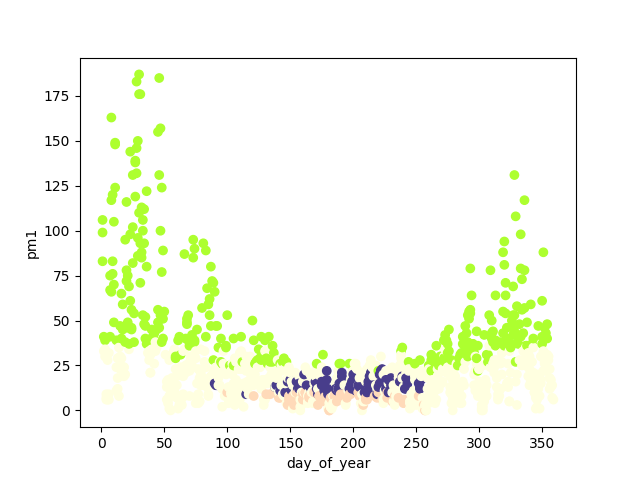
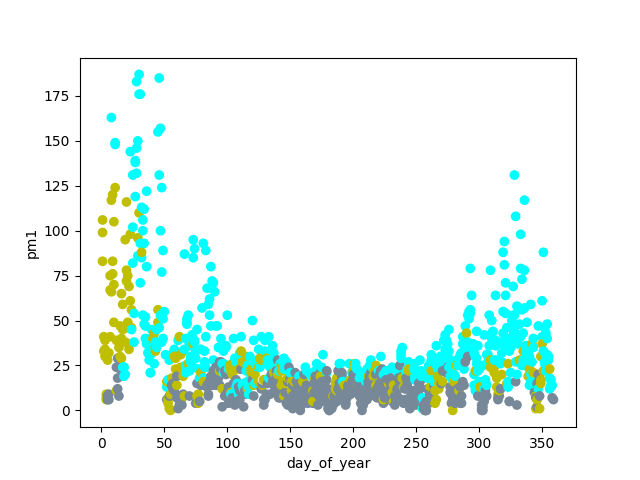
Plots

diff --git a/DataMining-Project2/DencityPeaks.py b/DataMining-Project2/DencityPeaks.py
@@ -19,13 +19,12 @@ from Lib import *
 
 X = 'temperature'
 Y = 'pm1'
-main_data = ('temperature', 'pm1')
+main_data = ('temperature', 'humidity', 'pressure', 'pm1')
 
 # Nice output :)
-def print_point(point, x_label, y_label):
-    print("(%s=%d, %s=%d, day_of_year=%d)  -> id=%d,  \tid_of_closest_neighbor=%s,\tcluster=%s,\tdensity=%d,\tdistance_to_higher_density_point=%.4f" % \
-        (x_label, point[x_label], y_label, point[y_label], point["day_of_year"], point["id"], str(point["id_of_point_with_higher_density"]),
-         str(point["cluster"]), point["density"], point["distance_to_higher_density_point"]))
+def print_point(point):
+    print("(temperature=%d, humidity=%d, pressure=%d, pm1=%d, day_of_year=%d) \t->  id=%d,\tid_of_closest_neighbor=%s,\tcluster=%s,\tdensity=%d,\tdistance_to_higher_density_point=%.4f" % \
+        (point["temperature"], point["humidity"], point["pressure"], point["pm1"], point["day_of_year"], point["id"], str(point["id_of_point_with_higher_density"]), str(point["cluster"]), point["density"], point["distance_to_higher_density_point"]))
 
 # Function computing density for points
 # Density is computed as a number of points which is closed to current than cutoff_distance
@@ -117,10 +116,6 @@ def get_and_calculate(sc, csv_file_name, cutoff_distance):
     
     print("points compleated")
     
-    plot_of_x_and_y(list_of_copleated_points, "day_of_year", "pm1", "date_and_pm1.png")
-    plot_of_x_and_y(list_of_copleated_points, "day_of_year", "pm10", "date_and_pm10.png")
-    plot_of_x_and_y(list_of_copleated_points, "day_of_year", "pm25", "date_and_pm25.png")
-
     points_with_local_density = copleated_points.map(
         lambda point: set_density(point, list_of_copleated_points, cutoff_distance))
     list_of_random_points = [point for point in points_with_local_density.toLocalIterator()]
@@ -166,7 +161,7 @@ def choose_centers_of_clusters(points, n):
     print("\n\nCenters of clusters:")
     for point in points.collect():
         if point["cluster"]:
-            print_point(point, X, Y)
+            print_point(point)
 
     return points
 
@@ -209,7 +204,7 @@ def complexity_in_time(sc, clusters, limit, cutoff_distance, p_min, p_max, k):
             complexity_data["points"].append(i)
             complexity_data["time"].append(elapsed_time)
 
-            plot_clusters(points, 'clusters_T-%d.png' % i)
+            plot_clusters(points, X, Y, 'clusters_T-%d.png' % i)
             print("Points: %d  --->  time = %f"% (i, elapsed_time))
             matplotlib.pyplot.close('all')
            
@@ -259,45 +254,54 @@ def check_of_cutoff_distance(sc, clusters, limit, cutoff_distance_min, cutoff_di
     pointsRDD = sc.parallelize(list_of_random_points)
     
     for i in xrange(cutoff_distance_min, cutoff_distance_max + 1, k):
-        #try:
-            points_with_local_density = pointsRDD.map(
-                lambda point: set_density(point, list_of_random_points, i))
-            list_of_random_points = [point for point in points_with_local_density.toLocalIterator()]
+        points_with_local_density = pointsRDD.map(
+            lambda point: set_density(point, list_of_random_points, i))
+        list_of_random_points = [point for point in points_with_local_density.toLocalIterator()]
 
-            points = points_with_local_density.map(
-                lambda point: set_distance_to_higher_density_point(point, list_of_random_points))
-            points = choose_centers_of_clusters(points, clusters)
-            points = assign_points_to_clusters(points)
+        points = points_with_local_density.map(
+            lambda point: set_distance_to_higher_density_point(point, list_of_random_points))
+        points = choose_centers_of_clusters(points, clusters)
+        points = assign_points_to_clusters(points)
         
-            plot_clusters(points, 'clusters_C-%f.png' % i)
-            print("Cut Off: %f"% (i))
-            matplotlib.pyplot.close('all')
-           
-        #except Exception:
-        #    print("Exception!!!")
-        #    continue
+        plot_clusters(points, X, Y, 'clusters_C-%f.png' % i)
+        print("Cut Off: %f"% (i))
+        matplotlib.pyplot.close('all')
+
+def make_basic_plots(points, sufix=''):
+    points = points.collect()
+    plot_temperature_humidity_pressure(points, "temperature_humidity_pressure.png")
+    plot_of_x_and_y(points, 'temperature', 'humidity', "temperature_humidity%s.png" % sufix)
+    plot_of_x_and_y(points, 'temperature', 'pressure', "temperature_pressure%s.png" % sufix)
+    plot_of_x_and_y(points, 'humidity', 'pressure', "humidity_pressure%s.png" % sufix)
+    
+    plot_of_x_and_y(points, "day_of_year", "pm1", "date_and_pm1%s.png" % sufix)
+
+    plot_of_x_and_y(points, 'temperature', 'pm1', "temperature_pm1%s.png" % sufix)
+    plot_of_x_and_y(points, 'humidity', 'pm1', "humidity_pm1%s.png" % sufix)
+    plot_of_x_and_y(points, 'pressure', 'pm1', "pressure_pm1%s.png" % sufix)
 
 def main(sc, csv_file_name, clusters, cutoff_distance):
     points = get_and_calculate(sc, csv_file_name, cutoff_distance)
-    plot_temperature_humidity_pressure(points, "temperature_humidity_pressure.png")
+
+    #make_basic_plots(points)
+
     points = choose_centers_of_clusters(points, clusters)
     print("centers done")
     plot_of_density_and_distance_to_higher_density_point(points, 'density.png')
 
     points = assign_points_to_clusters(points)
     print("clusters done")
-    plot_clusters(points, X, Y, 'clusters-dencity_peak.png')  
-    plot_of_x_and_y(points.collect(), "day_of_year", "pm1", "date_and_pm1_clusters.png")
+    
+    make_basic_plots(points, sufix='_clusters')
 
-    print("\n\nPoints:")
     points = points.collect()
-
+    print("\n\nPoints:")
     i = 1
     for cluster in range(1, clusters+1) + [None]:
         for point in points:
             if point["cluster"] == cluster:
                 print("%4d)" % i, end=' ')
-                print_point(point, X, Y)
+                print_point(point)
                 i += 1
         print("\n\n")
 
@@ -305,10 +309,6 @@ if __name__ == "__main__":
     conf = SparkConf().setAppName('DataMining_Project')
     sc = SparkContext(conf=conf)
 
-    main(sc, csv_file_name='full-year-2017-studencka-189-very-small.csv', clusters=4, cutoff_distance=2)
-
-    #complexity_in_time(sc, clusters=5, limit=10, cutoff_distance=1, p_min=20, p_max=1000, k=20)
-    #complexity_in_clusters_number(sc, clusters_min=3, clusters_max=50, limit=10, cutoff_distance=1, p=300)
-    #check_of_cutoff_distance(sc, clusters=5, limit=10, cutoff_distance_min=1, cutoff_distance_max=10, p=300)
+    main(sc, csv_file_name='full-year-2017-studencka-189-very-small.csv', clusters=4, cutoff_distance=15)
 
     matplotlib.pyplot.close('all')

diff --git a/DataMining-Project2/Lib.py b/DataMining-Project2/Lib.py
@@ -53,7 +53,6 @@ def plot_of_x_and_y(points, x_label, y_label, file_name):
     print("Image '%s' saved!" % file_name)
 
 def plot_temperature_humidity_pressure(points, file_name):
-    points = points.collect()
     x = [point["day_of_year"] for point in points]
     y1 = [point["temperature"] for point in points]
     y2 = [point["humidity"] for point in points]
